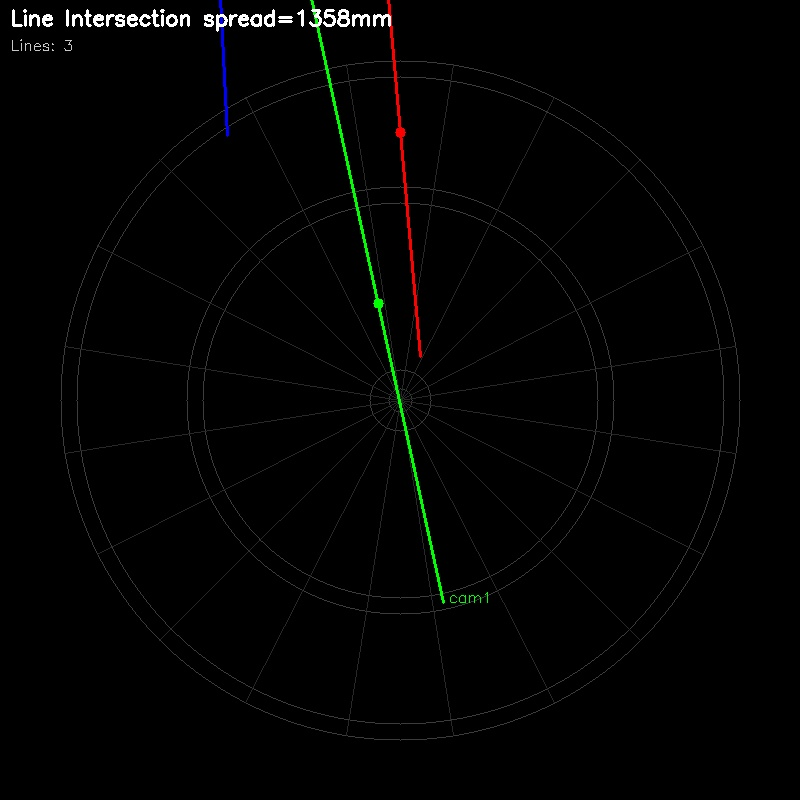
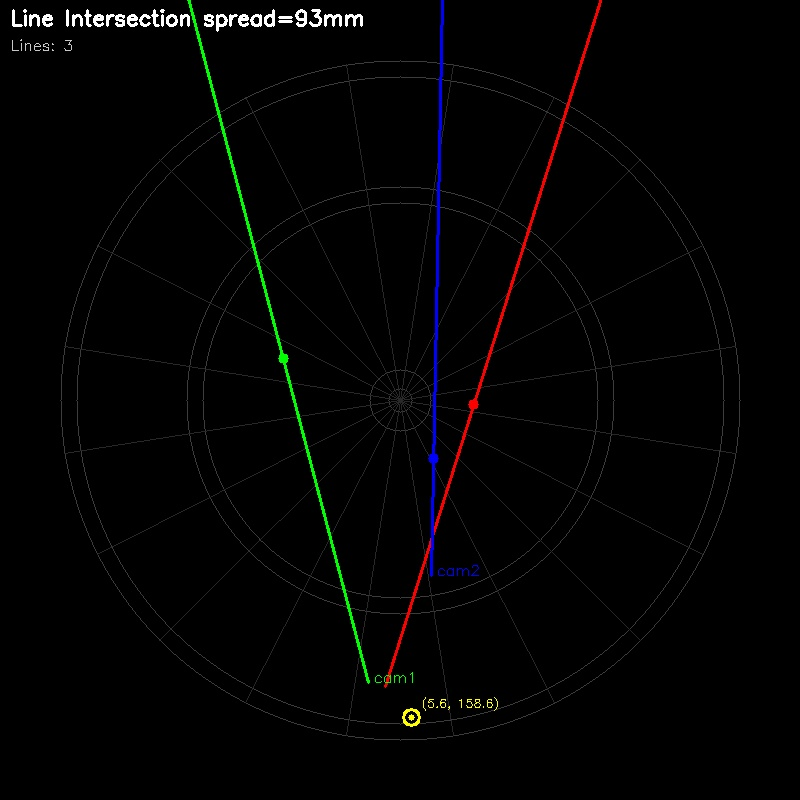
Robust line fitting: outlier rejection + largest-component cleanup before skeleton

diff --git a/app/core/skeleton_detection.py b/app/core/skeleton_detection.py
@@ -111,13 +111,45 @@ def find_skeleton_endpoints(skeleton):
 
 
 def fit_line_to_skeleton(skeleton):
-    """Fit a line to skeleton points using cv2.fitLine."""
+    """
+    Fit a line to skeleton points using iterative outlier rejection.
+    
+    1. Initial fit with DIST_HUBER (robust to outliers)
+    2. Remove points far from the fitted line
+    3. Refit with cleaned points
+    
+    This handles noise blobs and branching artifacts in the skeleton.
+    """
     points = np.column_stack(np.where(skeleton > 0))
     if len(points) < 10:
         return None
     points_xy = points[:, ::-1].reshape(-1, 1, 2).astype(np.float32)
+    
+    # Initial robust fit
     [vx, vy, x0, y0] = cv2.fitLine(points_xy, cv2.DIST_HUBER, 0, 0.01, 0.01)
-    return float(vx[0]), float(vy[0]), float(x0[0]), float(y0[0])
+    vx, vy, x0, y0 = float(vx[0]), float(vy[0]), float(x0[0]), float(y0[0])
+    
+    # Calculate perpendicular distance of each point to the line
+    pts_flat = points_xy.reshape(-1, 2)
+    dx = pts_flat[:, 0] - x0
+    dy = pts_flat[:, 1] - y0
+    # Perpendicular distance = |dx * vy - dy * vx| (since vx,vy is unit-ish)
+    perp_dist = np.abs(dx * vy - dy * vx)
+    
+    # Remove outliers: keep points within 2x median distance
+    median_dist = np.median(perp_dist)
+    threshold = max(median_dist * 3.0, 5.0)  # At least 5px tolerance
+    inlier_mask = perp_dist < threshold
+    
+    inlier_pts = pts_flat[inlier_mask]
+    if len(inlier_pts) < 10:
+        return vx, vy, x0, y0  # Return initial fit if too few inliers
+    
+    # Refit with inliers only
+    inlier_pts_cv = inlier_pts.reshape(-1, 1, 2).astype(np.float32)
+    [vx2, vy2, x02, y02] = cv2.fitLine(inlier_pts_cv, cv2.DIST_L2, 0, 0.01, 0.01)
+    
+    return float(vx2[0]), float(vy2[0]), float(x02[0]), float(y02[0])
 
 
 def find_dart_contour(motion_mask, min_area=500, min_aspect_ratio=2.0, existing_locations=None, exclude_radius=80, board_center=None):
@@ -855,7 +887,17 @@ def detect_dart_skeleton(
     # Also update original_mask to include the expanded region for tip projection
     original_mask = cv2.bitwise_or(original_mask, dart_mask)
     
-    # 5. Skeletonize
+    # 5. Clean up mask before skeletonization
+    # Remove small noise blobs that survived - keep only the largest connected component
+    skel_contours, _ = cv2.findContours(dart_mask, cv2.RETR_EXTERNAL, cv2.CHAIN_APPROX_SIMPLE)
+    if len(skel_contours) > 1:
+        # Keep only the largest contour
+        largest = max(skel_contours, key=cv2.contourArea)
+        clean_dart_mask = np.zeros_like(dart_mask)
+        cv2.drawContours(clean_dart_mask, [largest], -1, 255, -1)
+        dart_mask = clean_dart_mask
+    
+    # Skeletonize
     if HAS_SKIMAGE:
         skeleton = skeletonize(dart_mask > 0).astype(np.uint8) * 255
     else:
